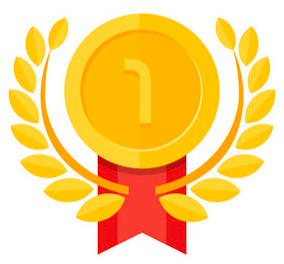
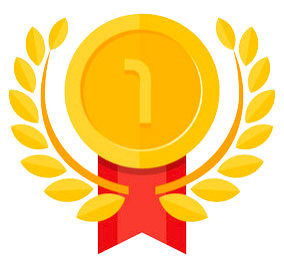
update design on leaderboard top 3 ranks

diff --git a/src/@interact/Components/Leaderboard/Leaderboard.js b/src/@interact/Components/Leaderboard/Leaderboard.js
@@ -110,30 +110,22 @@ export default function Leaderboard({ campaignData, bids }) {
       <Box style={{marginTop:'1rem',height:"100%"}}>
         {bids?.length > 0 ? (
           <Grid container spacing={1} style={{height:"95%"}}>
-            <Grid item xs={4} md={4} lg={4} xl={5}>
-              {/* <span style={{fontWeight:'bold', color:'#782FEE', textDecoration:'underline'}}>Congrats, you're 8th!</span> */}
-              {/* <span
-                style={{
-                  fontWeight: "bold",
-                  color: "#f54295",
-                  textDecoration: "underline",
-                }}
-              >
-                You've been overthrown to 20th
-              </span> */}
 
+            <Grid item xs={4} md={4} lg={4} xl={5}>
               <Stack
                 spacing={2}
                 direction="column"
                 justifyContent="space-evenly"
                 divider={<Divider orientation="horizontal" flexItem />}
                 sx={{ my: 2 }}
+                style={{margin:'15%'}}
               >
                 <RankComponent data={rows[0]} />
                 <RankComponent data={rows[1]} />
                 <RankComponent data={rows[2]} />
               </Stack>
             </Grid>
+
             <Grid item xs={8} md={8} lg={8} xl={7} style={{height:'100%'}}>
               <DataGrid
                 sx={{ flex: 1, height: "100%", borderColor: "divider" }}
@@ -147,6 +139,7 @@ export default function Leaderboard({ campaignData, bids }) {
                 disableSelectionOnClick
               />
             </Grid>
+
           </Grid>
         ) : (
           <Box
@@ -170,7 +163,7 @@ const medals = [medal1, medal2, medal3];
 function RankComponent({ data }) {
   return (
     <Box sx={{display:"flex", flexDirection:"row", my:1}} >
-      <img style={{ height: '40%', width:'40%', paddingRight: 10 }} src={medals[data?.id - 1]} alt="" />
+      <img style={{ height: '35%', width:'35%', paddingRight: 10 }} src={medals[data?.id - 1]} alt="" />
       <Stack direction="column">
         <Typography variant="h4">
           <Link href={`/u/${data?.username}`} style={{fontSize:'2.3vw'}}>{data?.username}</Link>
